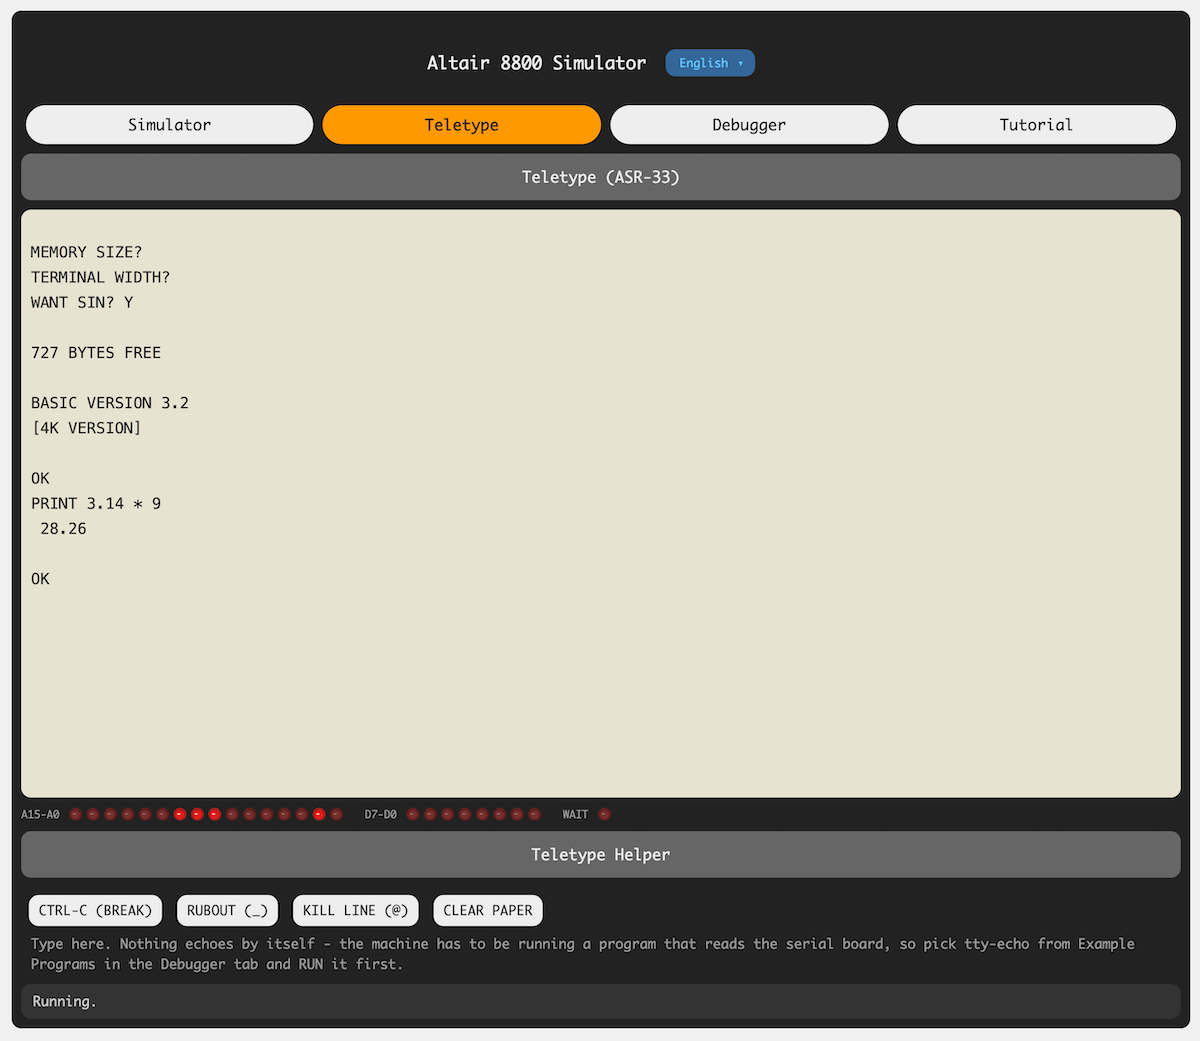
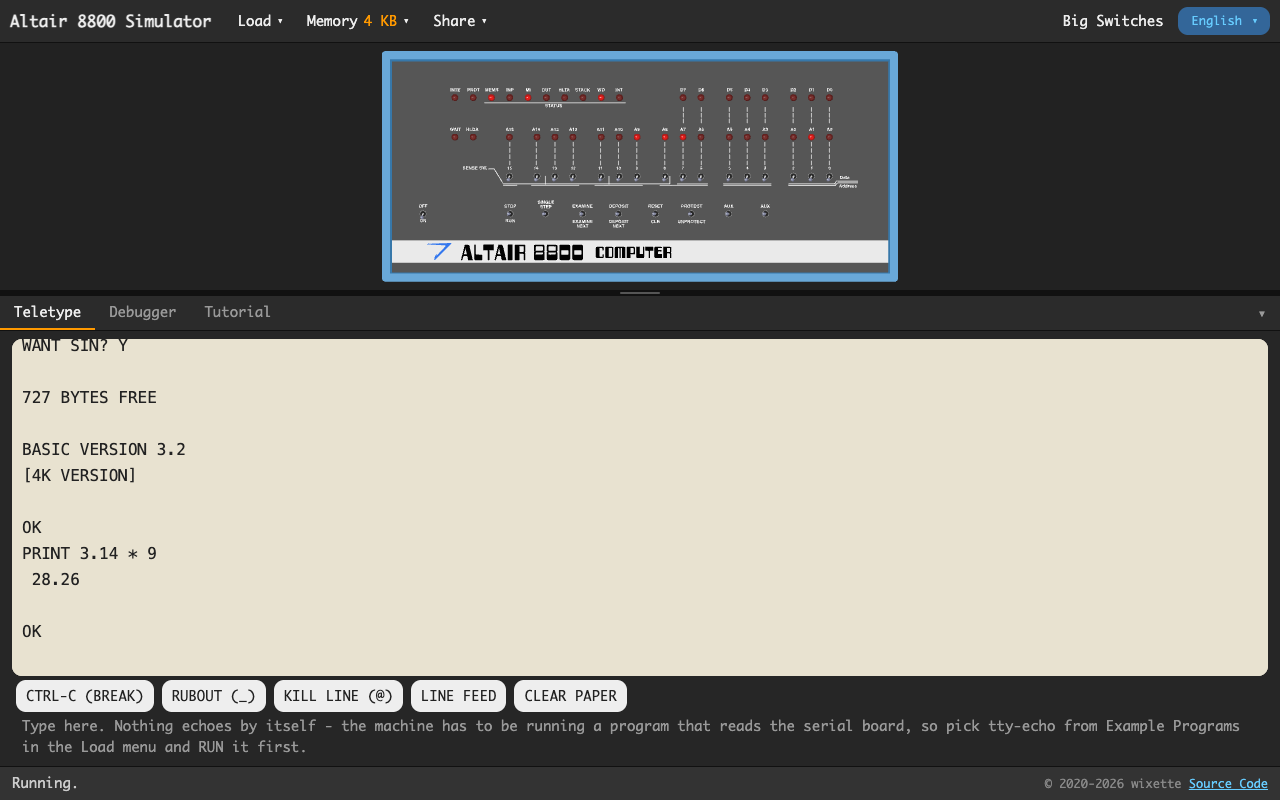
Put #10's features where the new layout wants them (U2)
- Copy Link becomes Share, a toolbar menu holding Copy Link and its
  Include registers and switches choice, under a sentence saying what
  the link is for (P4). It stays open after copying, so that the
  button's "Copied" can be read. The link format is untouched (P8).
- The instruction pane moves under the registers, headed Next
  Instruction, since it says where the CPU is. It is set out a line
  each - the instruction, the operand's value, the undocumented note -
  to fit the CPU's column, with the value lined up under the mnemonic.
  The operand highlighting in the dump is as it was.

Three new messages in all nine locales, a test that pins where both
went, and the design notes, README and its screenshots brought up to
date. The screenshots are taken from the page itself: the panel
running a program, 4K BASIC on the Teletype, and the Debugger part way
through the adder.

diff --git a/js/panel.js b/js/panel.js
@@ -773,15 +773,21 @@ panel.dumpMemCallback = function(dumpHtml, pages, instr) {
 panel.lastInstr = null;
 
 /**
- * Writes out the instruction at the program counter, under the memory
- * dump: its address, its bytes, its mnemonic with the operand named,
- * and the operand's value this time.
+ * Writes out the instruction at the program counter, under the
+ * registers: its address, its bytes and its mnemonic with the operand
+ * named, then the operand's value this time, then whether the opcode is
+ * one Intel never documented. A line each, to fit the CPU's column.
  */
 panel.renderInstrPane = function() {
     var elem = document.getElementById('instr-pane');
+    var title = document.getElementById('instr-title');
     var instr = panel.lastInstr;
     if (!elem) {
         return;
+    }
+    // Blank while the machine is off, like the dumps.
+    if (title) {
+        title.hidden = !instr;
     }
     if (!instr) {
         elem.textContent = '';
@@ -790,22 +796,25 @@ panel.renderInstrPane = function() {
     var hex = instr.bytes.map(function(b) {
         return Sim8800.toHex(b, 2);
     });
-    var parts = [
-        Sim8800.toHex(instr.address, 4),
-        '  <span class="at-pc">' + hex[0] + '</span>' +
+    var lines = [
+        Sim8800.toHex(instr.address, 4) +
+            '  <span class="at-pc">' + hex[0] + '</span>' +
             hex.slice(1).map(function(b) {
                 return ' <span class="at-operand">' + b + '</span>';
             }).join('') +
-            '   '.repeat(3 - hex.length),
-        '  ' + instr.mnemonic,
+            '   '.repeat(3 - hex.length) +
+            '  ' + instr.mnemonic,
     ];
+    // Under the mnemonic, lined up with it: the address, a gap, the
+    // bytes padded to three, and a gap.
+    var indent = ' '.repeat(4 + 2 + 8 + 2);
     if (instr.operand) {
-        parts.push('   ' + instr.operandName + ' = ' + instr.operand);
+        lines.push(indent + instr.operandName + ' = ' + instr.operand);
     }
     if (instr.undocumented) {
-        parts.push('   ' + l10n.getMessage('instr-undocumented'));
+        lines.push(l10n.getMessage('instr-undocumented'));
     }
-    elem.innerHTML = '<pre>' + parts.join('') + '</pre>';
+    elem.innerHTML = '<pre>' + lines.join('\n') + '</pre>';
 };
 
 /**
@@ -1514,6 +1523,9 @@ panel.init = function() {
     // first time Load opens.
     new Popover('load-button', 'load-popover', panel.buildExampleMenu);
     new Popover('memory-button', 'memory-popover');
+    // Copy Link stays open on its menu after it is pressed, so that
+    // what it did can be read off the button itself.
+    new Popover('share-button', 'share-popover');
     document.getElementById('helper-toggle').addEventListener(
         'click', function() {
             panel.setHelperShown(!panel.isHelperShown, true);

diff --git a/index.html b/index.html
@@ -84,6 +84,26 @@
           </div>
         </div>
 
+        <!-- A link to what is in the machine (U2). The format behind it
+             is a public contract: see js/link.js. -->
+        <div class="popover-wrap">
+          <button id="share-button" class="tool-button" type="button"
+                  aria-haspopup="true" aria-expanded="false">
+            <span id="share-menu" class="l10n">Share</span>
+            <span class="dropdown-arrow" aria-hidden="true">&#9662;</span>
+          </button>
+          <div id="share-popover" class="popover" hidden>
+            <div id="share-desc" class="popover-note l10n">A link that opens the simulator with what is in memory now.</div>
+            <label class="h-box align-items-center m-4 share-option">
+              <input id="copy-link-state" type="checkbox" class="mr-8">
+              <span id="copy-link-state-label" class="l10n">Include registers and switches</span>
+            </label>
+            <div class="h-box">
+              <div id="copy-link" class="button m-4 l10n">Copy Link</div>
+            </div>
+          </div>
+        </div>
+
         <div class="toolbar-spacer"></div>
 
         <!-- The Switch Board Helper's large buttons, for touch screens.
@@ -187,6 +207,9 @@
               <div class="debug-cpu">
                 <div id="debug-cpu-dump-title" class="section-label l10n">8080 CPU Status Dump</div>
                 <div id="cpu-dump"></div>
+                <!-- Where the CPU is, beside the rest of its state (U2). -->
+                <div id="instr-title" class="section-label l10n" hidden>Next Instruction</div>
+                <div id="instr-pane"></div>
               </div>
               <div class="debug-mem">
                 <div class="h-box align-items-center">
@@ -199,16 +222,8 @@
                   </div>
                   <div id="debug-fill-zero" class="button m-4 l10n">Zero All Memory</div>
                 </div>
-                <div class="h-box align-items-center copy-link-row">
-                  <div id="copy-link" class="button m-4 l10n">Copy Link</div>
-                  <label class="h-box align-items-center m-4">
-                    <input id="copy-link-state" type="checkbox" class="mr-8">
-                    <span id="copy-link-state-label" class="l10n">Include registers and switches</span>
-                  </label>
-                </div>
                 <div id="mem-map" class="mem-map" hidden></div>
                 <div id="mem-dump" class="mt-8"></div>
-                <div id="instr-pane" class="mt-8"></div>
               </div>
             </div>
           </div>

diff --git a/js/l10n.js b/js/l10n.js
@@ -144,6 +144,30 @@ l10n.MESSAGES = {
         'ko': '도구 열기',
     },
 
+    'share-menu': {
+        'en': 'Share',
+        'es': 'Compartir',
+        'fr': 'Partager',
+        'de': 'Teilen',
+        'it': 'Condividi',
+        'zh': '分享',
+        'zh-TW': '分享',
+        'ja': '共有',
+        'ko': '공유',
+    },
+
+    'share-desc': {
+        'en': 'A link that opens the simulator with what is in memory now.',
+        'es': 'Un enlace que abre el simulador con lo que hay ahora en la memoria.',
+        'fr': 'Un lien qui ouvre le simulateur avec ce qui est en mémoire maintenant.',
+        'de': 'Ein Link, der den Simulator mit dem jetzigen Speicherinhalt öffnet.',
+        'it': 'Un link che apre il simulatore con ciò che è ora in memoria.',
+        'zh': '一个链接，打开模拟器时载入当前内存中的内容。',
+        'zh-TW': '一個連結，開啟模擬器時載入目前記憶體中的內容。',
+        'ja': '今のメモリの内容を読み込んだ状態でシミュレーターを開くリンクです。',
+        'ko': '지금 메모리에 있는 내용을 불러온 채로 시뮬레이터를 여는 링크입니다.',
+    },
+
     'nav-tty': {
         'en': 'Teletype',
         'es': 'Teletipo',
@@ -661,6 +685,18 @@ l10n.MESSAGES = {
         'zh-TW': '機器已關閉，沒有記憶體可以清零。請先開機。',
         'ja': '電源が入っていないので、ゼロにするメモリがありません。先に電源を入れてください。',
         'ko': '기계가 꺼져 있어 0으로 만들 메모리가 없습니다. 먼저 전원을 켜세요.',
+    },
+
+    'instr-title': {
+        'en': 'Next Instruction',
+        'es': 'Siguiente Instrucción',
+        'fr': 'Instruction Suivante',
+        'de': 'Nächster Befehl',
+        'it': 'Istruzione Successiva',
+        'zh': '下一条指令',
+        'zh-TW': '下一道指令',
+        'ja': '次の命令',
+        'ko': '다음 명령',
     },
 
     'instr-undocumented': {

diff --git a/css/style.css b/css/style.css
@@ -44,22 +44,6 @@ a {
     flex-wrap: wrap;
 }
 
-/* Copy Link and the checkbox that shapes its link are read together,
-   so they never wrap apart. The label's own words may wrap. */
-.copy-link-row {
-    flex-wrap: nowrap;
-}
-
-.copy-link-row .button {
-    flex-shrink: 0;
-    white-space: nowrap;
-}
-
-.copy-link-row label {
-    flex-wrap: nowrap;
-    cursor: pointer;
-}
-
 .v-box {
     display: flex;
     flex-direction: column;
@@ -191,6 +175,23 @@ a {
 
 .popover .section-label:first-child {
     margin-top: 0;
+}
+
+/* A sentence saying what a menu's controls are for. */
+.popover-note {
+    color: #ccc;
+    font-size: 14px;
+    line-height: 1.5;
+    margin: 0 4px 6px 4px;
+}
+
+/* The Share menu's checkbox, and the words beside it, as one thing to
+   press. */
+.share-option {
+    color: #eee;
+    cursor: pointer;
+    flex-wrap: nowrap;
+    font-size: 14px;
 }
 
 /* A drop down the page draws itself: a button, and a list under it.

diff --git a/tests/panel.test.js b/tests/panel.test.js
@@ -222,6 +222,19 @@ test('a switch on the panel has one home', () => {
     }
 });
 
+test('Share and the next instruction are where U2 put them', () => {
+    // Copying a link is done once in a while, so it is a toolbar menu
+    // (P4); the instruction at PC says where the CPU is, so it sits
+    // with the registers rather than under the memory dump.
+    const html = sourceOf('index.html');
+    const at = (id) => html.indexOf('id="' + id + '"');
+    assert.ok(at('copy-link') > at('share-popover') &&
+              at('copy-link') < at('stage'), 'Copy Link is in the Share menu');
+    assert.ok(at('instr-pane') > at('cpu-dump') &&
+              at('instr-pane') < at('mem-dump'),
+              'the next instruction is beside the registers');
+});
+
 test('a first visit opens the dock on the Tutorial', () => {
     // No storage at all - as in a private window, or here in Node -
     // is a first visit.

diff --git a/README.md b/README.md
@@ -23,7 +23,7 @@ Microsoft's original 4K BASIC on a simulated Teletype.
   game on the teletype, each a checked listing you load with one click.
 - **Nine languages**, no build step and no dependencies.
 
-![The Simulator tab: the Altair 8800 front panel, switched on, with the Switch Board Helper below it](./screenshots/panel.png)
+![The simulator: the Altair 8800 front panel running a program, with the toolbar above and the Tutorial in the dock under it](./screenshots/panel.png)
 
 ## Usage
 
@@ -66,7 +66,10 @@ The toolbar's **Load** menu is how programs get in:
   Binary File**).
 
 Whatever is loaded, the dock opens on the Debugger to show it arriving.
-**Memory** chooses 256 bytes, as the Altair 8800 shipped, or 4 KB /
+**Share** copies a link to what is in memory, which opens at RESET
+ready to RUN; tick *Include registers and switches* to link to the
+machine as it stands instead, stopped at the current instruction (see
+[Linking to a program](#linking-to-a-program)). **Memory** chooses 256 bytes, as the Altair 8800 shipped, or 4 KB /
 8 KB as if you had plugged in one or two 88-4MCS memory boards. Memory
 boards are not something you add to a running machine, so changing the
 size switches the simulator off.
@@ -83,21 +86,25 @@ reading that board before anything appears — nothing echoes by itself.
 A dot on the tab says when something has printed while you were looking
 at another tool.
 
-![The Teletype tab running 4K BASIC: MEMORY SIZE?, 727 BYTES FREE, then PRINT 3.14 * 9 answered with 28.26](./screenshots/teletype.png)
+![4K BASIC on the Teletype, under the front panel: WANT SIN? Y, 727 BYTES FREE, then PRINT 3.14 * 9 answered with 28.26](./screenshots/teletype.png)
 
 **Debugger** shows the internal state of the simulated 8080 CPU and
 the contents of memory:
 
-- The **memory dump** shows one 256-byte page at a time. Above 256
-  bytes a map strip sits over it — one cell per page, shaded by how
-  much of that page is in use, and marked where the program counter
-  and the stack pointer are. Click a cell to jump there, or use
-  **Follow PC** to track the running program.
-- **Copy Link** copies a link to what is in memory, which opens at
-  RESET ready to RUN. Tick *Include registers and switches* to link to
-  the machine as it stands instead, stopped at the current instruction.
+- The **registers**, and under them the **next instruction**: its
+  address, its bytes, and its mnemonic with the operand named as
+  instruction tables name it (`LHLD a16`, `MVI B,d8`), then the
+  operand's value this time. Step with SINGLE STEP on the panel above
+  and watch it change.
+- The **memory dump** shows one 256-byte page at a time, with the
+  instruction at the program counter marked: its opcode in green and
+  the bytes that belong to it in a paler green. Above 256 bytes a map
+  strip sits over it — one cell per page, shaded by how much of that
+  page is in use, and marked where the program counter and the stack
+  pointer are. Click a cell to jump there, or use **Follow PC** to
+  track the running program.
 
-![The Debugger tab: the loaders, the CPU registers, installed memory and the memory dump](./screenshots/debugger.png)
+![The Debugger under the front panel, part way through a program: the registers, the next instruction decoded as LDA a16 = 0081H, and the memory dump marking it](./screenshots/debugger.png)
 
 **Tutorial** walks through toggling in a first program by hand and
 starting BASIC, with references for going further. It sits under the
@@ -124,7 +131,7 @@ the program's listing:
 A link can use `#` in place of `?`, as in `#hex=3E8CD3FF76`; both
 work.
 
-**Copy Link** in the Debugger writes a link after `#`. With
+**Share**, and **Copy Link** in it, writes a link after `#`. With
 *Include registers and switches* ticked it also holds the registers
 and the machine's place in the program. It leaves out whatever a
 machine just switched on would have anyway: registers that are zero

diff --git a/docs/ui-design.md b/docs/ui-design.md
@@ -15,7 +15,8 @@ principle here first, with its reason.**
 **Status.** The principles hold, and the layout in
 [Part 2](#part-2--the-layout) is built:
 [U1](#u1--the-front-panel-and-a-dock-replace-the-four-tabs) replaced
-the four tabs. The questions it left open were settled as listed in
+the four tabs, and [U2](#u2--where-10s-features-go) put #10's features
+in their places. The questions it left open were settled as listed in
 [Part 4](#part-4--open-questions), and remain open to revision once the
 layout has been used for a while.
 
@@ -163,7 +164,7 @@ does.
 ```
 
 Where the pieces of the four tabs went. Share and the instruction
-pane's new place are U2's.
+pane's place are U2's.
 
 | Before | Now | By |
 | --- | --- | --- |
@@ -250,18 +251,23 @@ touches no device.
 ### U2 — Where #10's features go
 
 [#10](https://github.com/wixette/8800-simulator/pull/10) added three
-things to the Debugger. Two of them move; one goes.
+things to the Debugger. Two of them moved; one went.
 
-- **Copy Link becomes Share** in the toolbar, with its *Include
-  registers and switches* choice. Its link format is a public contract
-  from the day it is released (P8).
-- **The instruction pane** ([D28](ms-basic-4k.md#d28--the-instruction-at-pc-decoded-under-the-dump))
-  moves beside the registers in the dock's Debugger, and the operand
-  highlighting in the dump stays as it is. It says where the CPU is,
-  so it belongs with the CPU state rather than under the dump.
-- **The repeated run switches** (D27) are taken out, because under U1
-  the panel they repeat is in view (P2). They come out on the same
-  branch that brings in U1, so they never ship and nobody loses them.
+- **Copy Link became Share**, a menu in the toolbar holding Copy Link
+  and its *Include registers and switches* choice, under a sentence
+  saying what the link is for. Copy Link stays open on the menu after
+  it is pressed, so that what it did can be read off the button. Its
+  link format is a public contract from the day it is released (P8).
+- **The instruction pane**
+  ([D28](ms-basic-4k.md#d28--the-instruction-at-pc-decoded-under-the-dump))
+  moved under the registers in the dock's Debugger, headed *Next
+  Instruction*. It says where the CPU is, so it belongs with the CPU
+  state rather than under the dump. It is set out a line each - the
+  instruction, the operand's value, the undocumented note - to fit
+  that column. The operand highlighting in the dump stayed as it was.
+- **The repeated run switches** (D27) were taken out, because the panel
+  they repeat is in view (P2). They came out on the same branch that
+  brought in U1, so they never shipped and nobody lost them.
 
 ---
 

diff --git a/docs/ms-basic-4k.md b/docs/ms-basic-4k.md
@@ -1019,9 +1019,11 @@ can show it.
 
 ### D28 — The instruction at PC, decoded under the dump
 
-> **Kept, and moved** by [U2](ui-design.md#u2--where-10s-features-go):
-> beside the registers in the dock's Debugger. The operand highlighting
-> stays as it is.
+> **Kept, and moved** by [U2](ui-design.md#u2--where-10s-features-go): it is under the registers in
+> the dock's Debugger, headed *Next Instruction*, and set out a line
+> each - the instruction, the operand's value, the undocumented note -
+> to fit that column. The operand highlighting in the dump is as it
+> was.
 
 A pane under the memory dump names the instruction the CPU will run
 next: its address, its bytes, the mnemonic with the operand named as
